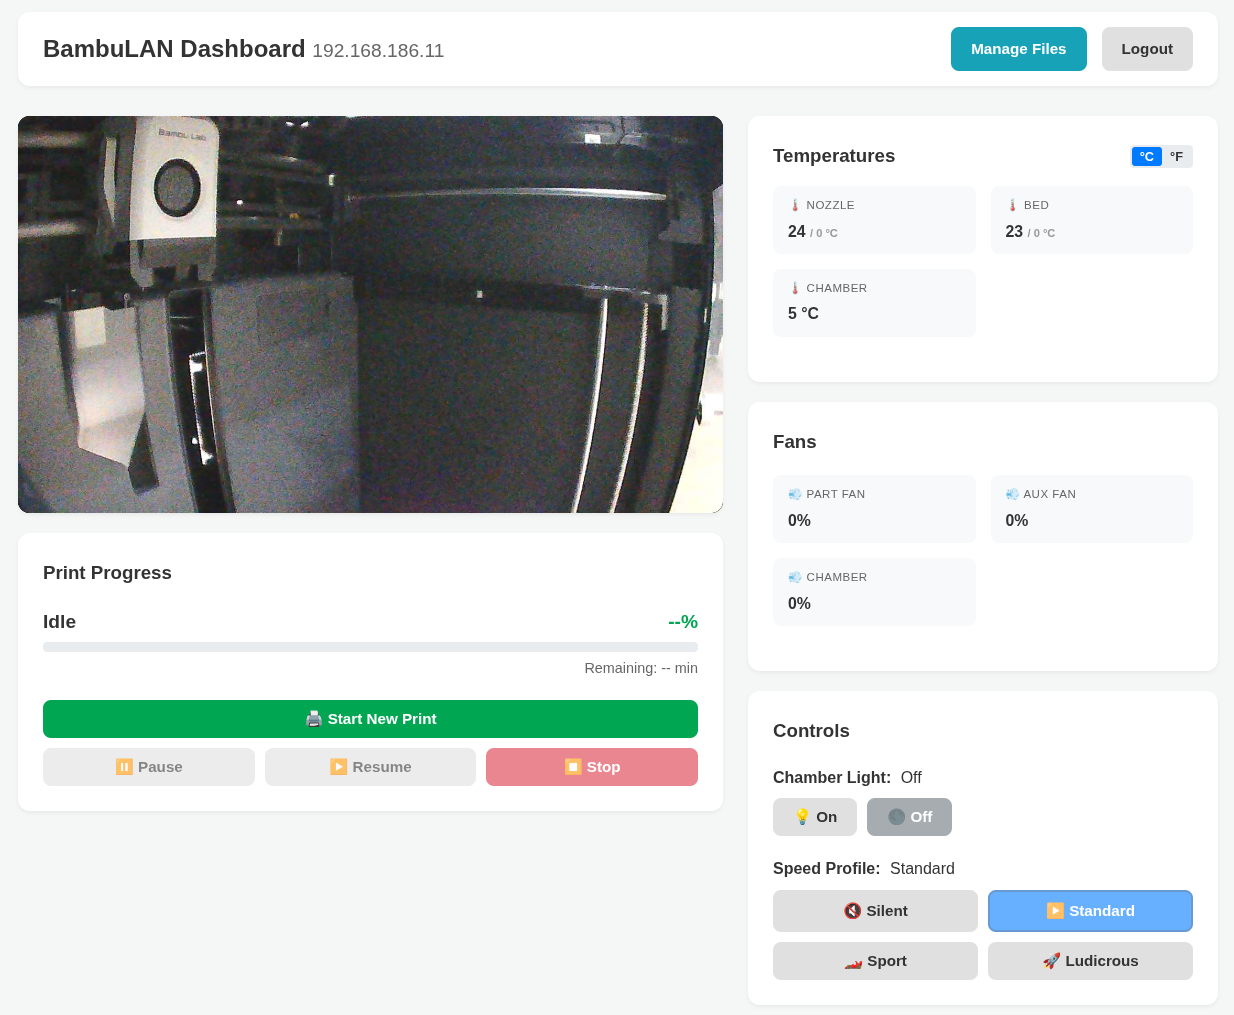
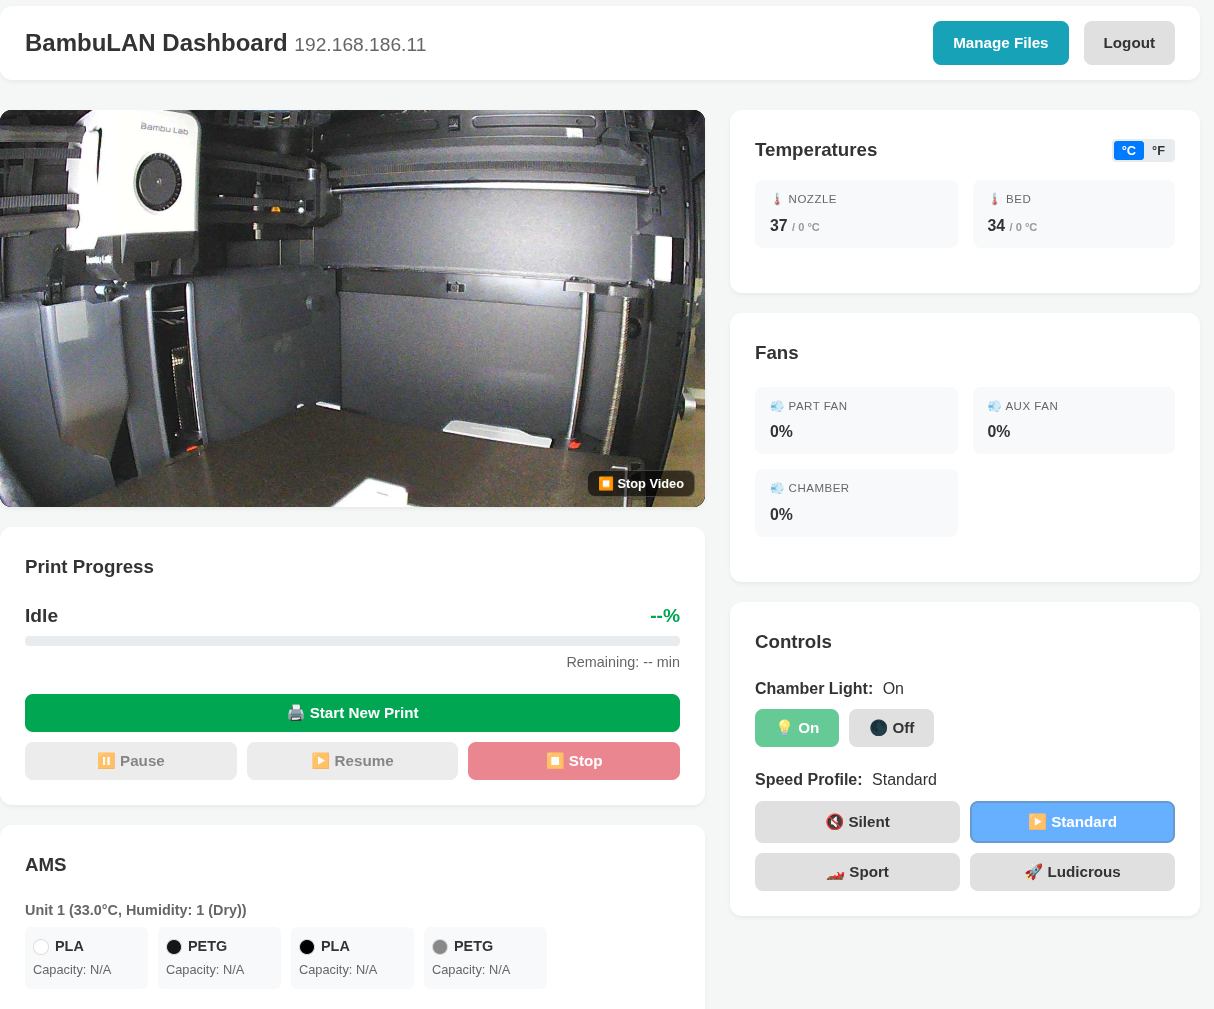
AMS info in the dashboard, humidity display.
* Add card with AMS info to the dashboard.
* Add name to the humidity value.

diff --git a/cmd/bambulan/templates/index.html b/cmd/bambulan/templates/index.html
@@ -64,6 +64,11 @@
                         <button id="btnStop" onclick="control('stop')" class="btn btn-danger">⏹ Stop</button>
                     </div>
                 </div>
+
+                <div class="card" id="cardAMS" style="display: none;">
+                    <h3>AMS</h3>
+                    <div id="amsContainer"></div>
+                </div>
             </div>
 
 
@@ -93,7 +98,7 @@
                                     style="font-size: 0.7em; color: #999;">/ <span id="bed_target">--</span> <span
                                         class="temp-unit">°C</span></span></div>
                         </div>
-                        <div class="metric-item">
+                        <div class="metric-item" id="chamber_row">
                             <span class="metric-label">🌡 Chamber</span>
                             <div class="metric-value"><span id="chamber">--</span> <span class="temp-unit">°C</span>
                             </div>
@@ -208,6 +213,11 @@
             return Math.round((v / 15) * 100);
         }
 
+        function formatColor(hex) {
+            if (!hex || hex.length < 6) return "#cccccc";
+            return "#" + hex.substring(0, 6);
+        }
+
         function showStartPrint() {
             document.getElementById('printModal').style.display = 'flex';
             // Defaults logic for AMS
@@ -288,7 +298,14 @@
                         document.getElementById('nozzle_target').innerText = formatTemp(p.nozzle_target_temper);
                         document.getElementById('bed').innerText = formatTemp(p.bed_temper);
                         document.getElementById('bed_target').innerText = formatTemp(p.bed_target_temper);
-                        document.getElementById('chamber').innerText = formatTemp(p.chamber_temper);
+
+                        // Chamber temp of 5 often means invalid/no sensor
+                        if (p.chamber_temper > 5) {
+                            document.getElementById('chamber').innerText = formatTemp(p.chamber_temper);
+                            document.getElementById('chamber_row').style.display = 'block';
+                        } else {
+                            document.getElementById('chamber_row').style.display = 'none';
+                        }
 
                         document.getElementById('fan_part').innerText = formatFan(p.cooling_fan_speed);
                         document.getElementById('fan_aux').innerText = formatFan(p.big_fan1_speed);
@@ -348,6 +365,97 @@
                         } else {
                             btnOff.classList.add('active-off');
                             btnOff.disabled = true;
+                        }
+
+                        // AMS Logic
+                        if (p.ams && p.ams.ams && p.ams.ams.length > 0) {
+                            const amsCard = document.getElementById('cardAMS');
+                            const container = document.getElementById('amsContainer');
+                            amsCard.style.display = 'block';
+
+                            // Rebuild AMS content
+                            // Optimization: In a real app we'd diff, but for now wiping is fine
+                            container.innerHTML = "";
+
+                            p.ams.ams.forEach((unit, idx) => {
+                                const unitDiv = document.createElement('div');
+                                unitDiv.style.marginBottom = "10px";
+
+                                // Clean up humidity display
+                                // Value is typically 0-5 index, not percentage
+                                let hum = unit.humidity;
+                                if (hum === undefined || hum === null || hum === "") hum = "--";
+
+                                let humText = hum;
+                                if (hum === "1") humText = "1 (Dry)";
+                                else if (hum === "5") humText = "5 (Wet)";
+
+                                const temp = unit.temp || "--";
+
+                                unitDiv.innerHTML = `<div style="font-size: 0.9em; font-weight: 600; margin-bottom: 5px; color: var(--text-light);">Unit ${idx + 1} (${temp}°C, Humidity: ${humText})</div>`;
+
+                                const grid = document.createElement('div');
+                                grid.style.display = 'grid';
+                                grid.style.gridTemplateColumns = 'repeat(auto-fill, minmax(120px, 1fr))';
+                                grid.style.gap = '10px';
+
+                                if (unit.tray) {
+                                    unit.tray.forEach(tray => {
+                                        // Skip empty slots if needed, but usually we want to show empty slots too?
+                                        // If tray doesn't exist or is empty, maybe show 'Empty'
+                                        // Bambu sends specific empty-ish objects. Check for valid ID or Type.
+
+                                        const color = formatColor(tray.tray_color);
+                                        const type = tray.tray_type || "Empty";
+                                        const remain = tray.remain !== undefined ? tray.remain + "%" : "--";
+                                        const unknown = (tray.remain < 0); // -1 often means unknown
+
+                                        const item = document.createElement('div');
+                                        item.style.background = '#f8f9fa';
+                                        item.style.padding = '8px';
+                                        item.style.borderRadius = '6px';
+                                        item.style.display = 'flex';
+                                        item.style.flexDirection = 'column'; // Stack vertically
+                                        item.style.gap = '2px';
+
+                                        // Top Row: Circle + Type
+                                        const topRow = document.createElement('div');
+                                        topRow.style.display = 'flex';
+                                        topRow.style.alignItems = 'center';
+                                        topRow.style.gap = '6px';
+
+                                        const circle = document.createElement('div');
+                                        circle.style.width = '14px';
+                                        circle.style.height = '14px';
+                                        circle.style.borderRadius = '50%';
+                                        circle.style.backgroundColor = color;
+                                        circle.style.border = '1px solid #ddd';
+                                        circle.title = tray.tray_color; // Tooltip with full hex
+
+                                        const typeDiv = document.createElement('div');
+                                        typeDiv.style.fontWeight = 'bold';
+                                        typeDiv.style.fontSize = '0.9em';
+                                        typeDiv.innerText = type;
+
+                                        topRow.appendChild(circle);
+                                        topRow.appendChild(typeDiv);
+
+                                        // Bottom Row: Capacity
+                                        const capDiv = document.createElement('div');
+                                        capDiv.style.fontSize = '0.8em';
+                                        capDiv.style.color = '#666';
+                                        capDiv.innerText = unknown ? "Capacity: N/A" : remain;
+
+                                        item.appendChild(topRow);
+                                        item.appendChild(capDiv);
+                                        grid.appendChild(item);
+                                    });
+                                }
+                                unitDiv.appendChild(grid);
+                                container.appendChild(unitDiv);
+                            });
+                        } else {
+                            document.getElementById('cardAMS').style.display = 'none';
                         }
                     }
                 })

diff --git a/cmd/bambulan/main.go b/cmd/bambulan/main.go
@@ -73,13 +73,23 @@ func (c *StatusCmd) Run(ctx *Context) error {
 		if c.ShowAMS && status.Ams != nil {
 			fmt.Println("\n--- AMS Status ---")
 			for i, unit := range status.Ams.Ams {
-				fmt.Printf("Unit %d: Temp=%s, Humidity=%s\n", i+1, unit.Temp, unit.Humidity)
+				hum := unit.Humidity
+				if hum == "1" {
+					hum = "1 (Dry)"
+				} else if hum == "5" {
+					hum = "5 (Wet)"
+				}
+				fmt.Printf("Unit %d: Temp=%s, Humidity=%s\n", i+1, unit.Temp, hum)
 				for j, tray := range unit.Tray {
 					if tray.Id == "" {
 						fmt.Printf("  Slot %d: [Empty]\n", j+1)
 						continue
 					}
-					fmt.Printf("  Slot %d: %s %s (%d%%)\n", j+1, tray.TraySubBrands, tray.TrayColor, tray.Remain)
+					remain := fmt.Sprintf("%d%%", tray.Remain)
+					if tray.Remain < 0 {
+						remain = "Capacity: N/A"
+					}
+					fmt.Printf("  Slot %d: %s %s (%s)\n", j+1, tray.TraySubBrands, tray.TrayColor, remain)
 				}
 			}
 		}
